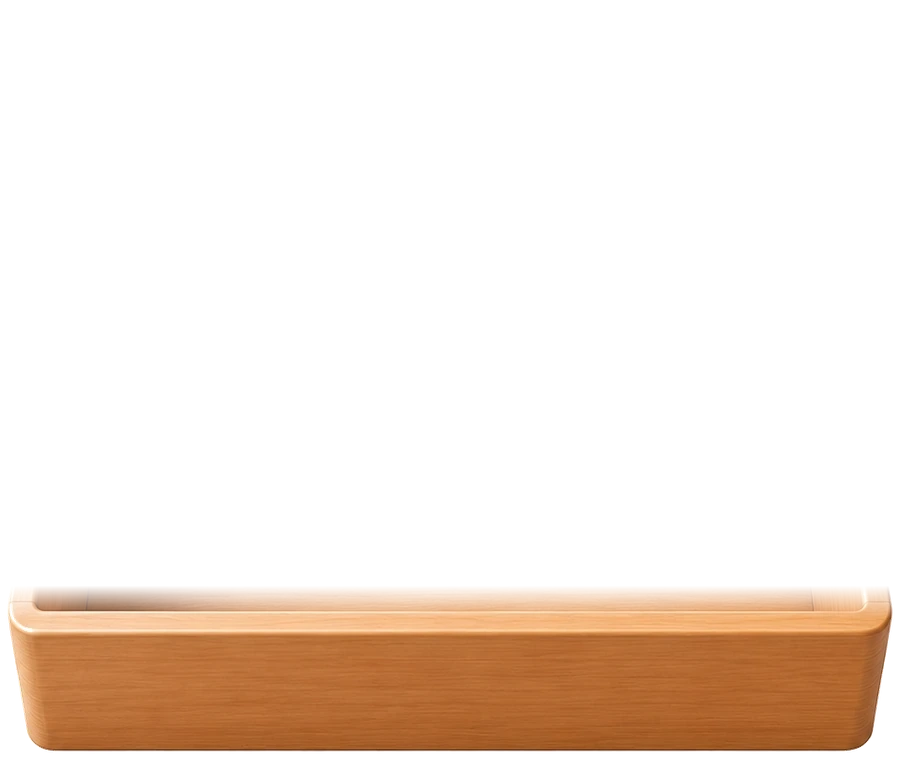
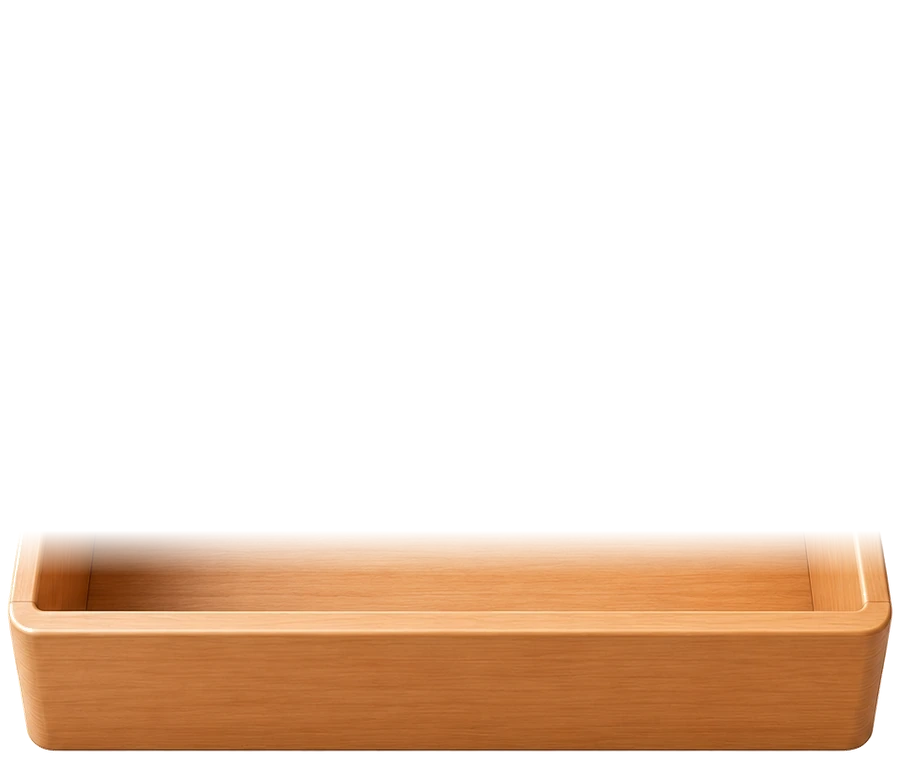
Tuck coffee-box slips behind the oak lip.
Mini piles were still sitting on the front rim. Lip now includes the inner front wall.

Changed region(s): [[0.0, 0.697, 0.9956, 0.8182]]

diff --git a/index.html b/index.html
@@ -9,7 +9,7 @@
   <meta name="apple-mobile-web-app-status-bar-style" content="default" />
   <meta name="apple-mobile-web-app-title" content="ava" />
   <title>ava</title>
-  <link rel="stylesheet" href="product.css?v=7" />
+  <link rel="stylesheet" href="product.css?v=8" />
   <link rel="preload" as="image" href="assets/3d/his-tray.webp" type="image/webp">
 </head>
 <body>
@@ -116,6 +116,6 @@
     </div>
   </div>
   <div class="toast" id="toast"></div>
-  <script src="product.js?v=7"></script>
+  <script src="product.js?v=8"></script>
 </body>
 </html>

diff --git a/product.js b/product.js
@@ -43,9 +43,9 @@
   ];
 
   const MINI = [
-    { t: "36%", l: "32%", r: "-8deg", w: "16%" },
-    { t: "42%", l: "48%", r: "7deg", w: "15%" },
-    { t: "46%", l: "38%", r: "-5deg", w: "15%" },
+    { t: "34%", l: "32%", r: "-8deg", w: "13%" },
+    { t: "38%", l: "46%", r: "7deg", w: "12%" },
+    { t: "40%", l: "37%", r: "-5deg", w: "12%" },
   ];
 
   function extras() {

diff --git a/product.css b/product.css
@@ -143,6 +143,10 @@ img { display: block; max-width: 100%; }
   height: auto;
   display: block;
 }
+.drawer.mini .slip {
+  width: 13%;
+  max-height: 26%;
+}
 
 .section { padding: 22px 20px 0; }
 .section h2 {
